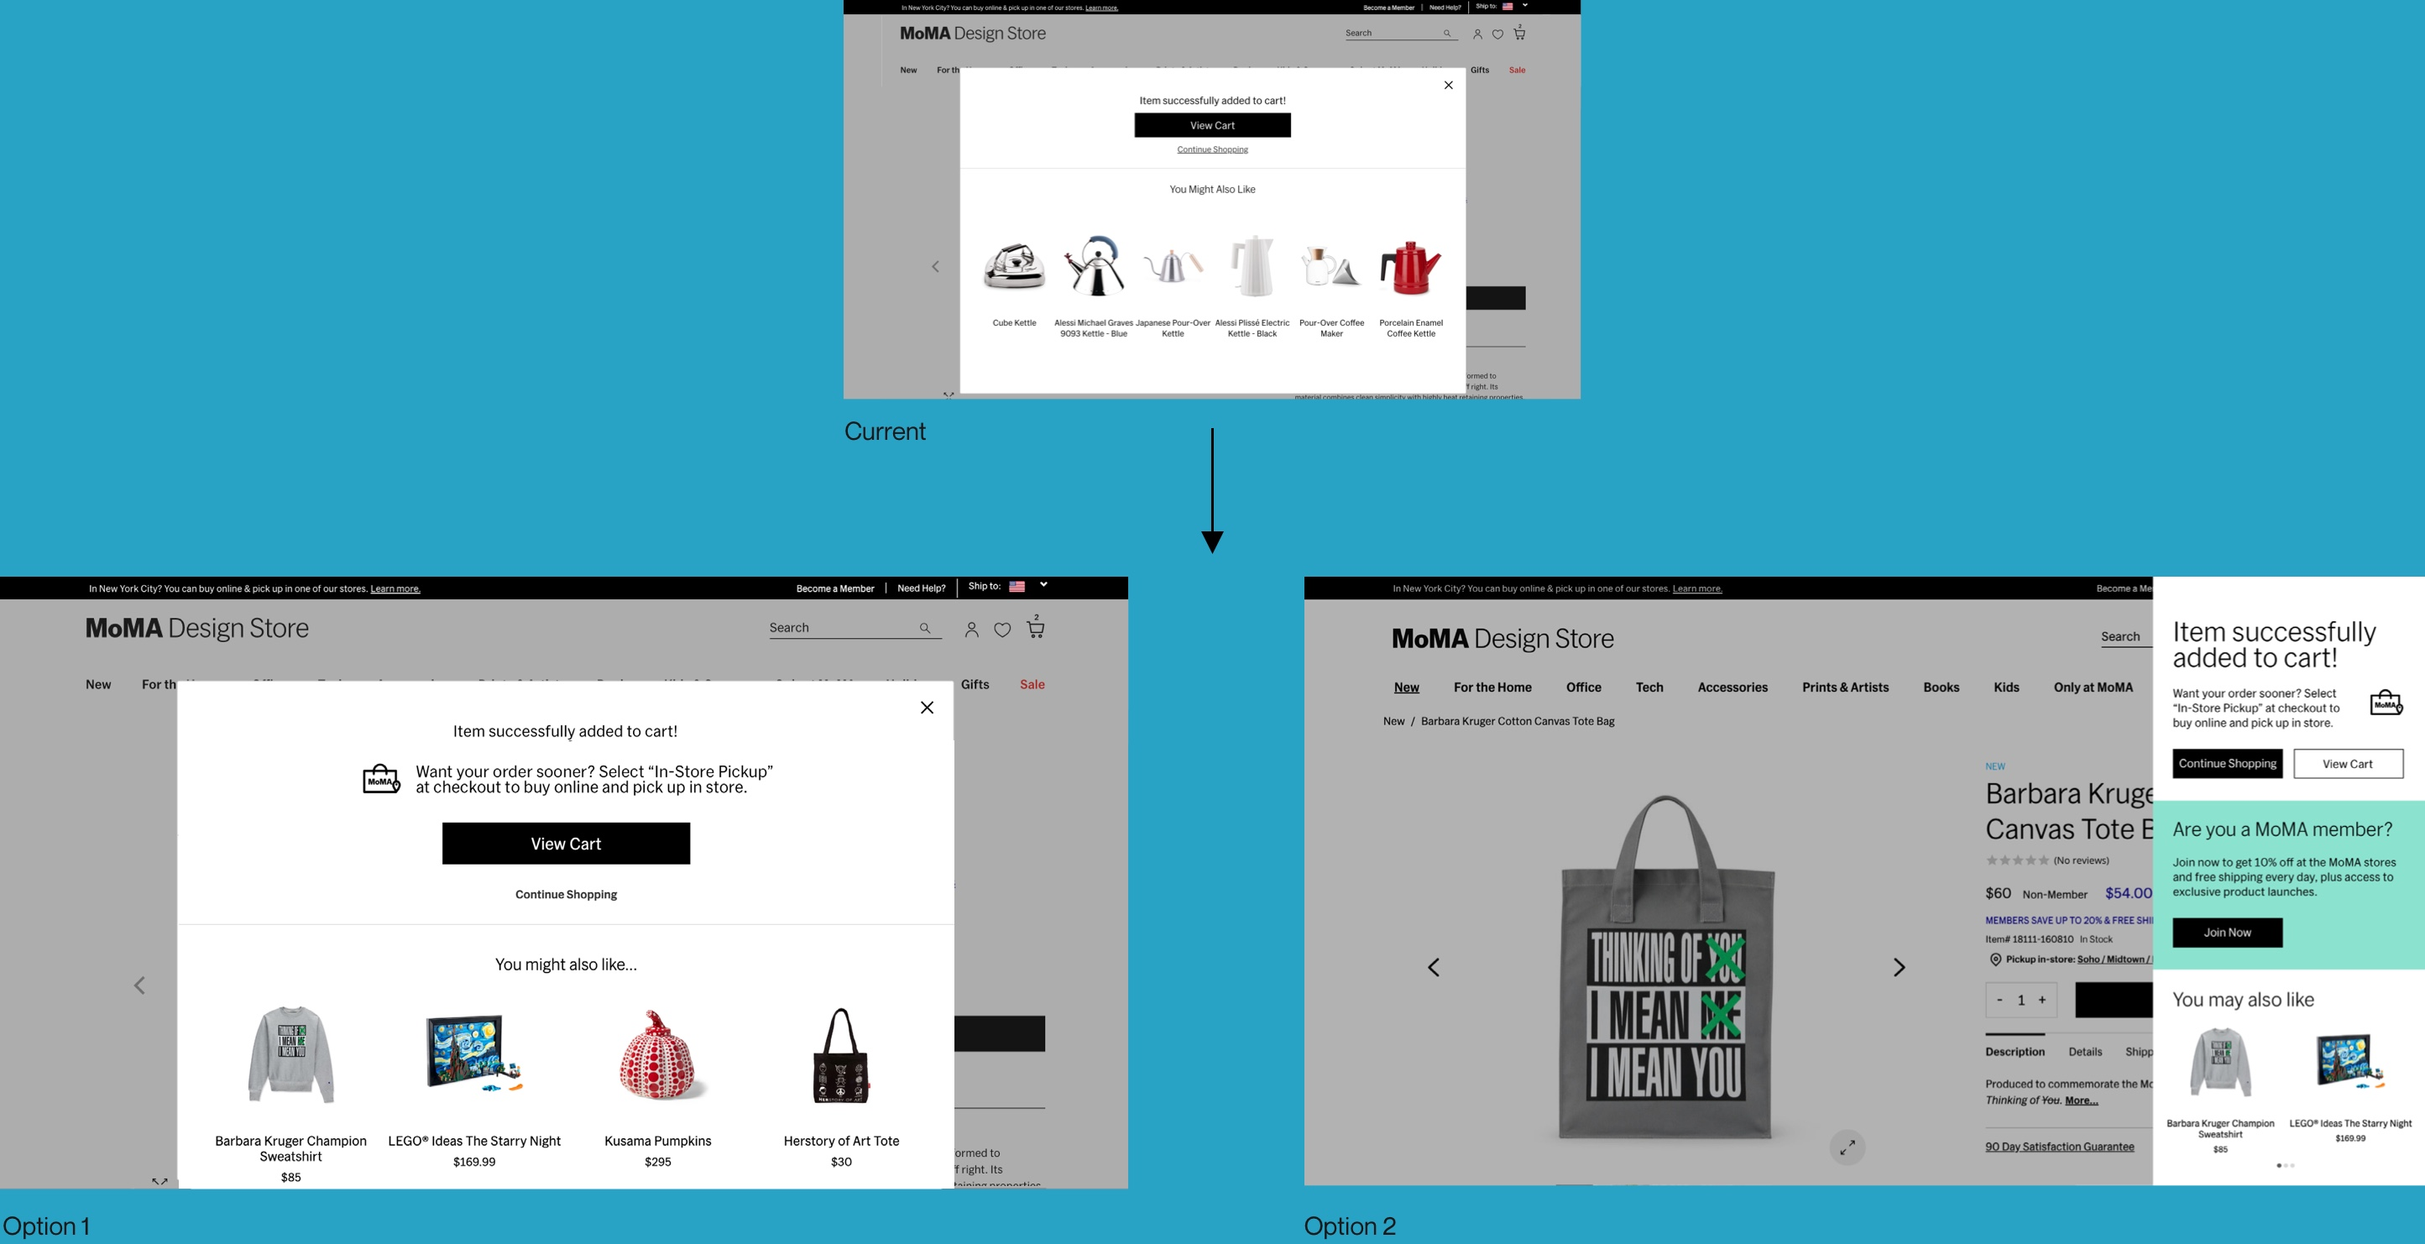
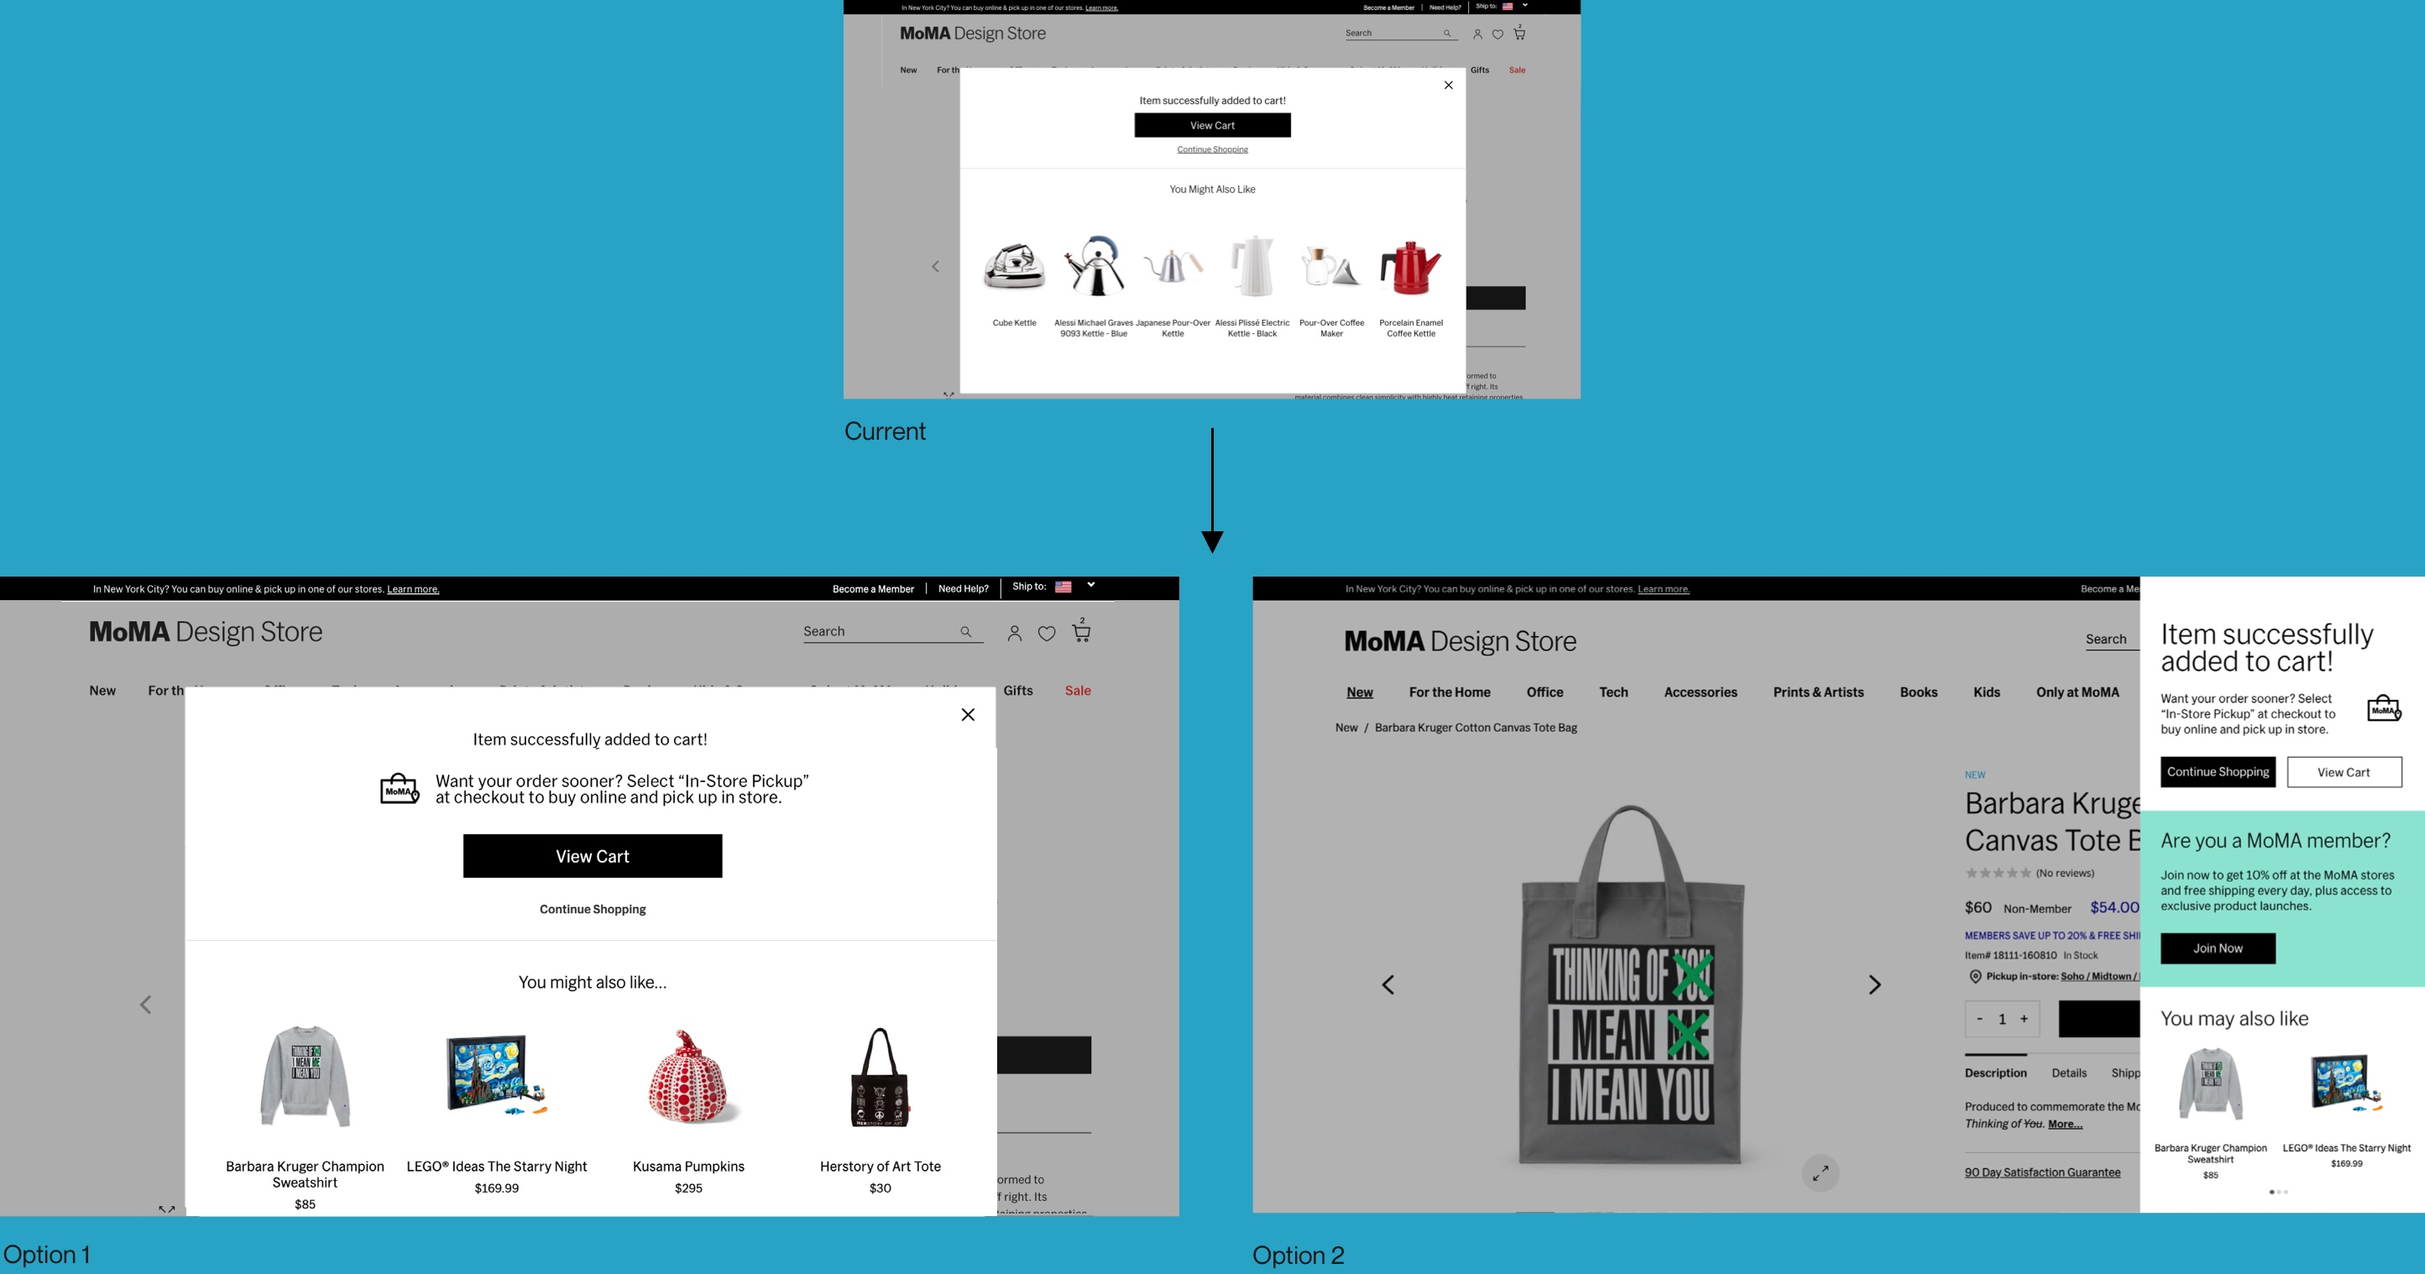
Jan15

diff --git a/work/bopis/index.html b/work/bopis/index.html
@@ -30,18 +30,19 @@
         <a href="#projectintro" class="anchortitle" style="color: white;text-decoration: overline 1px;">Project Intro</a>
         <a href="#problems" class="anchorcontent" style="color: white;">· Problems</a>
         <a href="#research" class="anchortitle" style="color: white;text-decoration: overline 1px;">Research</a>
-        <a href="#currentcustomerexperience" class="anchorcontent" style="color: white;">· Current Customer Experience</a>
-        <a href="#whattoimprove" class="anchorcontent" style="color: white;">· Potential Opportunity?</a>
+        <a href="#strategiesused" class="anchorcontent" style="color: white;">· Strategies Used By Competitors</a>
         <a href="#ourapproach" class="anchortitle" style="color: white;text-decoration: overline 1px;">Our Approach</a>
         <a href="#oursolution" class="anchorcontent" style="color: white;">· Our Solution</a>
-        <a href="" class="anchortitle" style="color: white;text-decoration: overline 1px;">Design Process Example</a>
-        <a href="#forcustomerreturnrate" class="anchorcontent" style="color: white;">· Added to Cart pop-up window</a>
-        <a href="" class="anchortitle" style="color: white;text-decoration: overline 1px;">Other Key Outcome</a>
-        <a href="#forcustomerentryrate" class="anchorcontent" style="color: white;">· Homepage</a>
-        <a href="#forcustomerentryrate" class="anchorcontent" style="color: white;">· Category Landing Page</a>
-        <a href="#forcustomerentryrate" class="anchorcontent" style="color: white;">· Email & Social Media</a>
-        <a href="#visualdesign" class="anchortitle" style="color: white;text-decoration: overline 1px;">Lesson Learned</a>
-        <a href="#payment" class="anchorcontent" style="color: white;">· Checkout & Payment</a>
+        <a href="#digitaltouchpoints" class="anchorcontent" style="color: white;">· Digital Touchpoints</a>
+        <a href="#designprocessexample" class="anchortitle" style="color: white;text-decoration: overline 1px;">Design Process Example</a>
+        <a href="#addedtocart" class="anchorcontent" style="color: white;">· Added to Cart pop-up window</a>
+        <a href="#otherkeyoutcomes" class="anchortitle" style="color: white;text-decoration: overline 1px;">Other Key Outcome</a>
+        <a href="#homepage" class="anchorcontent" style="color: white;">· Homepage</a>
+        <a href="#categorylandingpage" class="anchorcontent" style="color: white;">· Category Landing Page</a>
+        <a href="#cart" class="anchorcontent" style="color: white;">· Cart</a>
+        <a href="#emailsocial" class="anchorcontent" style="color: white;">· Email & Social Media</a>
+        <a href="#lessonlearned" class="anchortitle" style="color: white;text-decoration: overline 1px;">Lesson Learned</a>
+        <!-- <a href="#payment" class="anchorcontent" style="color: white;">· Checkout & Payment</a> -->
     </div>
 
 
@@ -69,7 +70,7 @@
 
         <div style="background-color: #28A2C5; margin: 0; width: 100%;">
             <div class="subtitle1" id="research">· Research ·</div>
-            <div class="subtitleHeader2" id="currentcustomerexperience">Strategies Used By Competitors</div>
+            <div class="subtitleHeader2" id="strategiesused">Strategies Used By Competitors</div>
             <div class="subtitlecontent2">To minimize shipping costs and enhance the integration of online and offline shopping experiences, retailers can adopt several strategies.</div>
 
             <div class="subtitlecontent3">#1 Optimize Supply Chain and Logistics:<br>Streamlining the supply chain, including optimizing inventory management, negotiating better shipping rates, and using data analytics for demand forecasting, can significantly cut costs.</div>
@@ -89,43 +90,46 @@
         </div>
         <img class="onepic2" src="oursolution.jpg"><br><br><br><br>
 
-        <div class="subtitleHeader2" id="whattoimprove">Digital Touchpoints</div>
+        <div class="subtitleHeader2" id="digitaltouchpoints">Digital Touchpoints</div>
         <div class="subtitlecontent2">As the digital design manager, I identified and charted all the digital touchpoints available, enabling me to closely examine and incorporate content specifically for the BOPIS (Buy Online, Pick Up in Store) service. My wonderful colleagues managed the store and logistics aspects, which I will not be detailing here.</div>
         <img class="onepic2" src="currentcustomerexperience.png">
 
 
         <div style="background-color: #28A2C5; margin: 0; width: 100%;">
-            <div class="subtitle1" id="forcustomerreturnrate">· Design Process Example·</div>
-            <div class="subtitleHeader2">Add to Cart Pop-up Window<br></div>
-            <div class="subtitlecontent2">In crafting the logged-out version of the landing page, our aim was to provide an in-depth exploration of how the program operates and the advantages awaiting customers once they enroll. My design contributions encompassed creating modules for the hero section, program functionality explanation, benefits, and frequently asked questions. We also sought to incorporate information about the Museum of Modern Art membership, which offers additional perks to museum members.<br><br>Towards the page's conclusion, I integrated a product carousel. This addition serves the purpose of enticing customers who may require some contemplation before committing to the program. Viewing our product offerings is intended to spark their interest and encourage their participation.<br><br></div>
+            <div class="subtitle1" id="designprocessexample">· Design Process Example·</div>
+            <div class="subtitleHeader2" id="addedtocart">Add to Cart Pop-up Window<br></div>
+            <div class="subtitlecontent2">To give an insight into this project, here's a glimpse of the overall work. I explored various ways to integrate BOPIS (Buy Online, Pick Up in Store) related information into the 'Add to Cart' pop-up window.</div>
             <img class="onepic2" src="bopisaddtocart2.jpg">
+            <div class="subtitlecontent3">For option 1, I proposed adding a text section and a program icon to inform customers that the item they've added to their cart is available for 
+            BOPIS. This update is beneficial as it requires minimal effort from the development team. However, it results in considerable unused white space on both the left and right sides of the pop-up window.</div>
+            <div class="subtitlecontent3">I implemented additional changes for option 2, involving both content addition and alterations to the structure of the pop-up window. Contrary to option 1, this approach makes better use of space, allowing us to mention BOPIS along with other services, and highlighting all call to actions. However, it does necessitate more extensive development efforts.</div>
         </div>
 
         <div style="margin: 0; width: 100%;">
-            <div class="subtitle2" id="forcustomerentryrate">· Other Key Outcome ·</div>
-            <div class="subtitleHeader2">Homepage</div>
+            <div class="subtitle2" id="otherkeyoutcomes">· Other Key Outcome ·</div>
+            <div class="subtitleHeader2" id="homepage">Homepage</div>
             <div class="subtitlecontent2">The best place to feature the service is the global navigation, as we want to save the banners for product features. The global nav will dynamically target customers by geo-location – only customers within 20 miles of Manhattan will see this banner.</div>
             <img class="onepic2" src="bopis_0.jpg">
 
             <br><br><br><br><br><br>
-            <div class="subtitleHeader2">Category Landing Page</div>
+            <div class="subtitleHeader2" id="categorylandingpage">Category Landing Page</div>
             <div class="subtitlecontent2">As more than 95% of our customers land on a product category page while visiting our site, adding the service to the filter column makes it prominent. An in-grid content block stands up from the products populated on the category page, making a stronger customer impression.</div>
             <img class="onepic2" src="bopis_1.jpg"></img>
 
             <br><br><br><br><br><br>
-            <div class="subtitleHeader2">Cart</div>
+            <div class="subtitleHeader2" id="cart">Cart</div>
             <div class="subtitlecontent2">Although we want to surface BOPIS on the Cart page, it is not the priority. I proposed adding it to the bottom right module, where we highlight our services and programs. </div>
             <img class="onepic2" src="bopis_3.jpg">
 
             <br><br><br><br><br><br>
-            <div class="subtitleHeader2">Email & Social</div>
+            <div class="subtitleHeader2" id="emailsocial">Email & Social</div>
             <div class="subtitlecontent2">I also designed the launch email and social media content to promote the service on other digital channels. Although these are not direct sales drivers, they are potential conversion drivers. It is essential to educate our customers and raise awareness.</div>
             <img class="onepic2" src="bopis_4.jpg">
             <br><br>
         </div>
         
 
-        <div style=" margin: 0; background-color: #28A2C5;" id="visualdesign">
+        <div style=" margin: 0; background-color: #28A2C5;" id="lessonlearned">
             <div class="subtitle1" style="margin-top:0;"></div>
             <div class="subtitleHeader2">Lesson Learned</div>
             <div class="subtitlecontent2">The success of this project heavily relies on <a style="text-decoration: underline wavy black 1px;">technical bandwidth</a>, which is a crucial factor. This refers to the availability and capacity of our technical resources and infrastructure to handle the demands of the project. It encompasses aspects such as the adequacy of hardware and software, the expertise and availability of technical staff, and the overall technological capability of our organization to support and execute the project efficiently.<br><br>One area for potential improvement by the team in the future is the <a style="text-decoration: underline wavy black 1px;">checkout process</a>. Currently, our customers face a limitation where they cannot complete a checkout if the items in their cart are to be picked up from different locations, due to technical difficulties. This necessitates placing separate orders for each location. Moreover, customers are not informed of this until a mere 5 seconds before entering their payment details, leading to a less-than-ideal shopping experience. Addressing this issue could significantly enhance customer satisfaction and streamline the purchasing process.</div>

diff --git a/work/momarewards/index.html b/work/momarewards/index.html
@@ -131,18 +131,24 @@
             <div class="subtitleHeader2" id="programlandingpage">Program Landing Page<br></div>
             <div class="subtitlecontent2">A landing page is essential when launching a new program. It should clearly present key information, including how the program operates, its benefits, and a Q&A section. I delved into various approaches to effectively introduce and highlight the program to potential participants.</div>
             <img class="onepic2" src="wireframe.png">
+            <br><br><br><br>
+            <div class="subtitlecontent2">Working closely with marketing experts and our copywriter, we selected the second wireframe option from the left to proceed with. Our goal was to ensure that the content was both clear and engaging.</div>
             <img class="onepic2" src="rewardsloggedout.png">
             <img class="onepic2" src="rewardsloggedout_mobile.png">
             
             <br><br><br><br><br><br>
             <div class="subtitleHeader2" id="myaccount">My Account vs. A New Page<br></div>
-            <div class="subtitlecontent2">In crafting the logged-out version of the landing page, our aim was to provide an in-depth exploration of how the program operates and the advantages awaiting customers once they enroll. My design contributions encompassed creating modules for the hero section, program functionality explanation, benefits, and frequently asked questions. We also sought to incorporate information about the Museum of Modern Art membership, which offers additional perks to museum members.<br><br>Towards the page's conclusion, I integrated a product carousel. This addition serves the purpose of enticing customers who may require some contemplation before committing to the program. Viewing our product offerings is intended to spark their interest and encourage their participation.</div>
+            <div class="subtitlecontent2">Originally, my plan was to create an informational page where customers could learn about the program, and to use the existing My Account page to display details like their tier level, redeemable credit, ways to earn more points, FAQs, and so on. Since the My Account page was a pre-existing, generic page, this approach wouldn't have required customers to navigate any new steps or pages.<br><br>However, I encountered a setback when the development team informed me that this plan was not feasible due to technical constraints. This prompted me to go back to the drawing board and reconsider the information architecture altogether.</div>
             <img class="onepic2" src="myaccountflow.png">
+            <div class="subtitlecontent2">Faced with the technical constraint, I re-evaluated the structure and developed a new approach: creating a logged-in version of the program's landing page. On this page, users can both learn about the program and track their personal progress. This solution requires only minimal updates to the existing My Account page, making it a feasible and efficient alternative.</div>
             <img class="onepic2" src="rewardsloggedin.png">
                 
             <div class="subtitleHeader1" id="instoredigital">How to Combine the In-store and Online Experience?</div>
             <div class="subtitlecontent2">In contrast to online shopping, where points can be seamlessly redeemed during the checkout process, in-store customers are required to present a redemption code at the point of sale. Ideally, I envisioned one landing page for each store's signage, introducing the loyalty program while incorporating specific content about each individual store. (MoMA Design Store operates three physical stores in New York City, each offering a slightly distinct product selection and hosting unique store events.) <br><br>However, due to our constrained timeline and resource limitations, we must combine the in-store experience with the online experience, striking a balance between the two.</div>
-            <img class="onepic1" src="store+digital.png">
+            <img class="onepic2" src="store+digital.png">
+            <div class="subtitlecontent2">Now, customers are required to actively click the 'Redeem for Store Purchase' button and choose the amount they wish to redeem. Upon selection, the system generates and sends them an email containing a unique code, which they can then present at the store's register for redemption.</div>
+            <br><br><br><br>
+
 
         </div>
 
@@ -164,7 +170,7 @@
 
             <br><br><br><br><br><br>
             <div class="subtitleHeader2" id="socialmedia">Social Media Content</div>
-            <div class="subtitlecontent2">Social media is another vital aspect. I designed all social media content and collaborated with the Assitant Director of Branding and External Events.</div>
+            <div class="subtitlecontent2">Social media plays a crucial role in our strategy. For the launch phase, we aim to create content that includes detailed information about how the program functions. Additionally, we've crafted evergreen content, designed to remain relevant and engaging over time, which will be prominently featured at the top of our post grid. I designed all social media content and collaborated with the Assitant Director of Branding and External Events.</div>
             <img class="onepic2" src="socialmedia2.jpg">
         </div>
         
